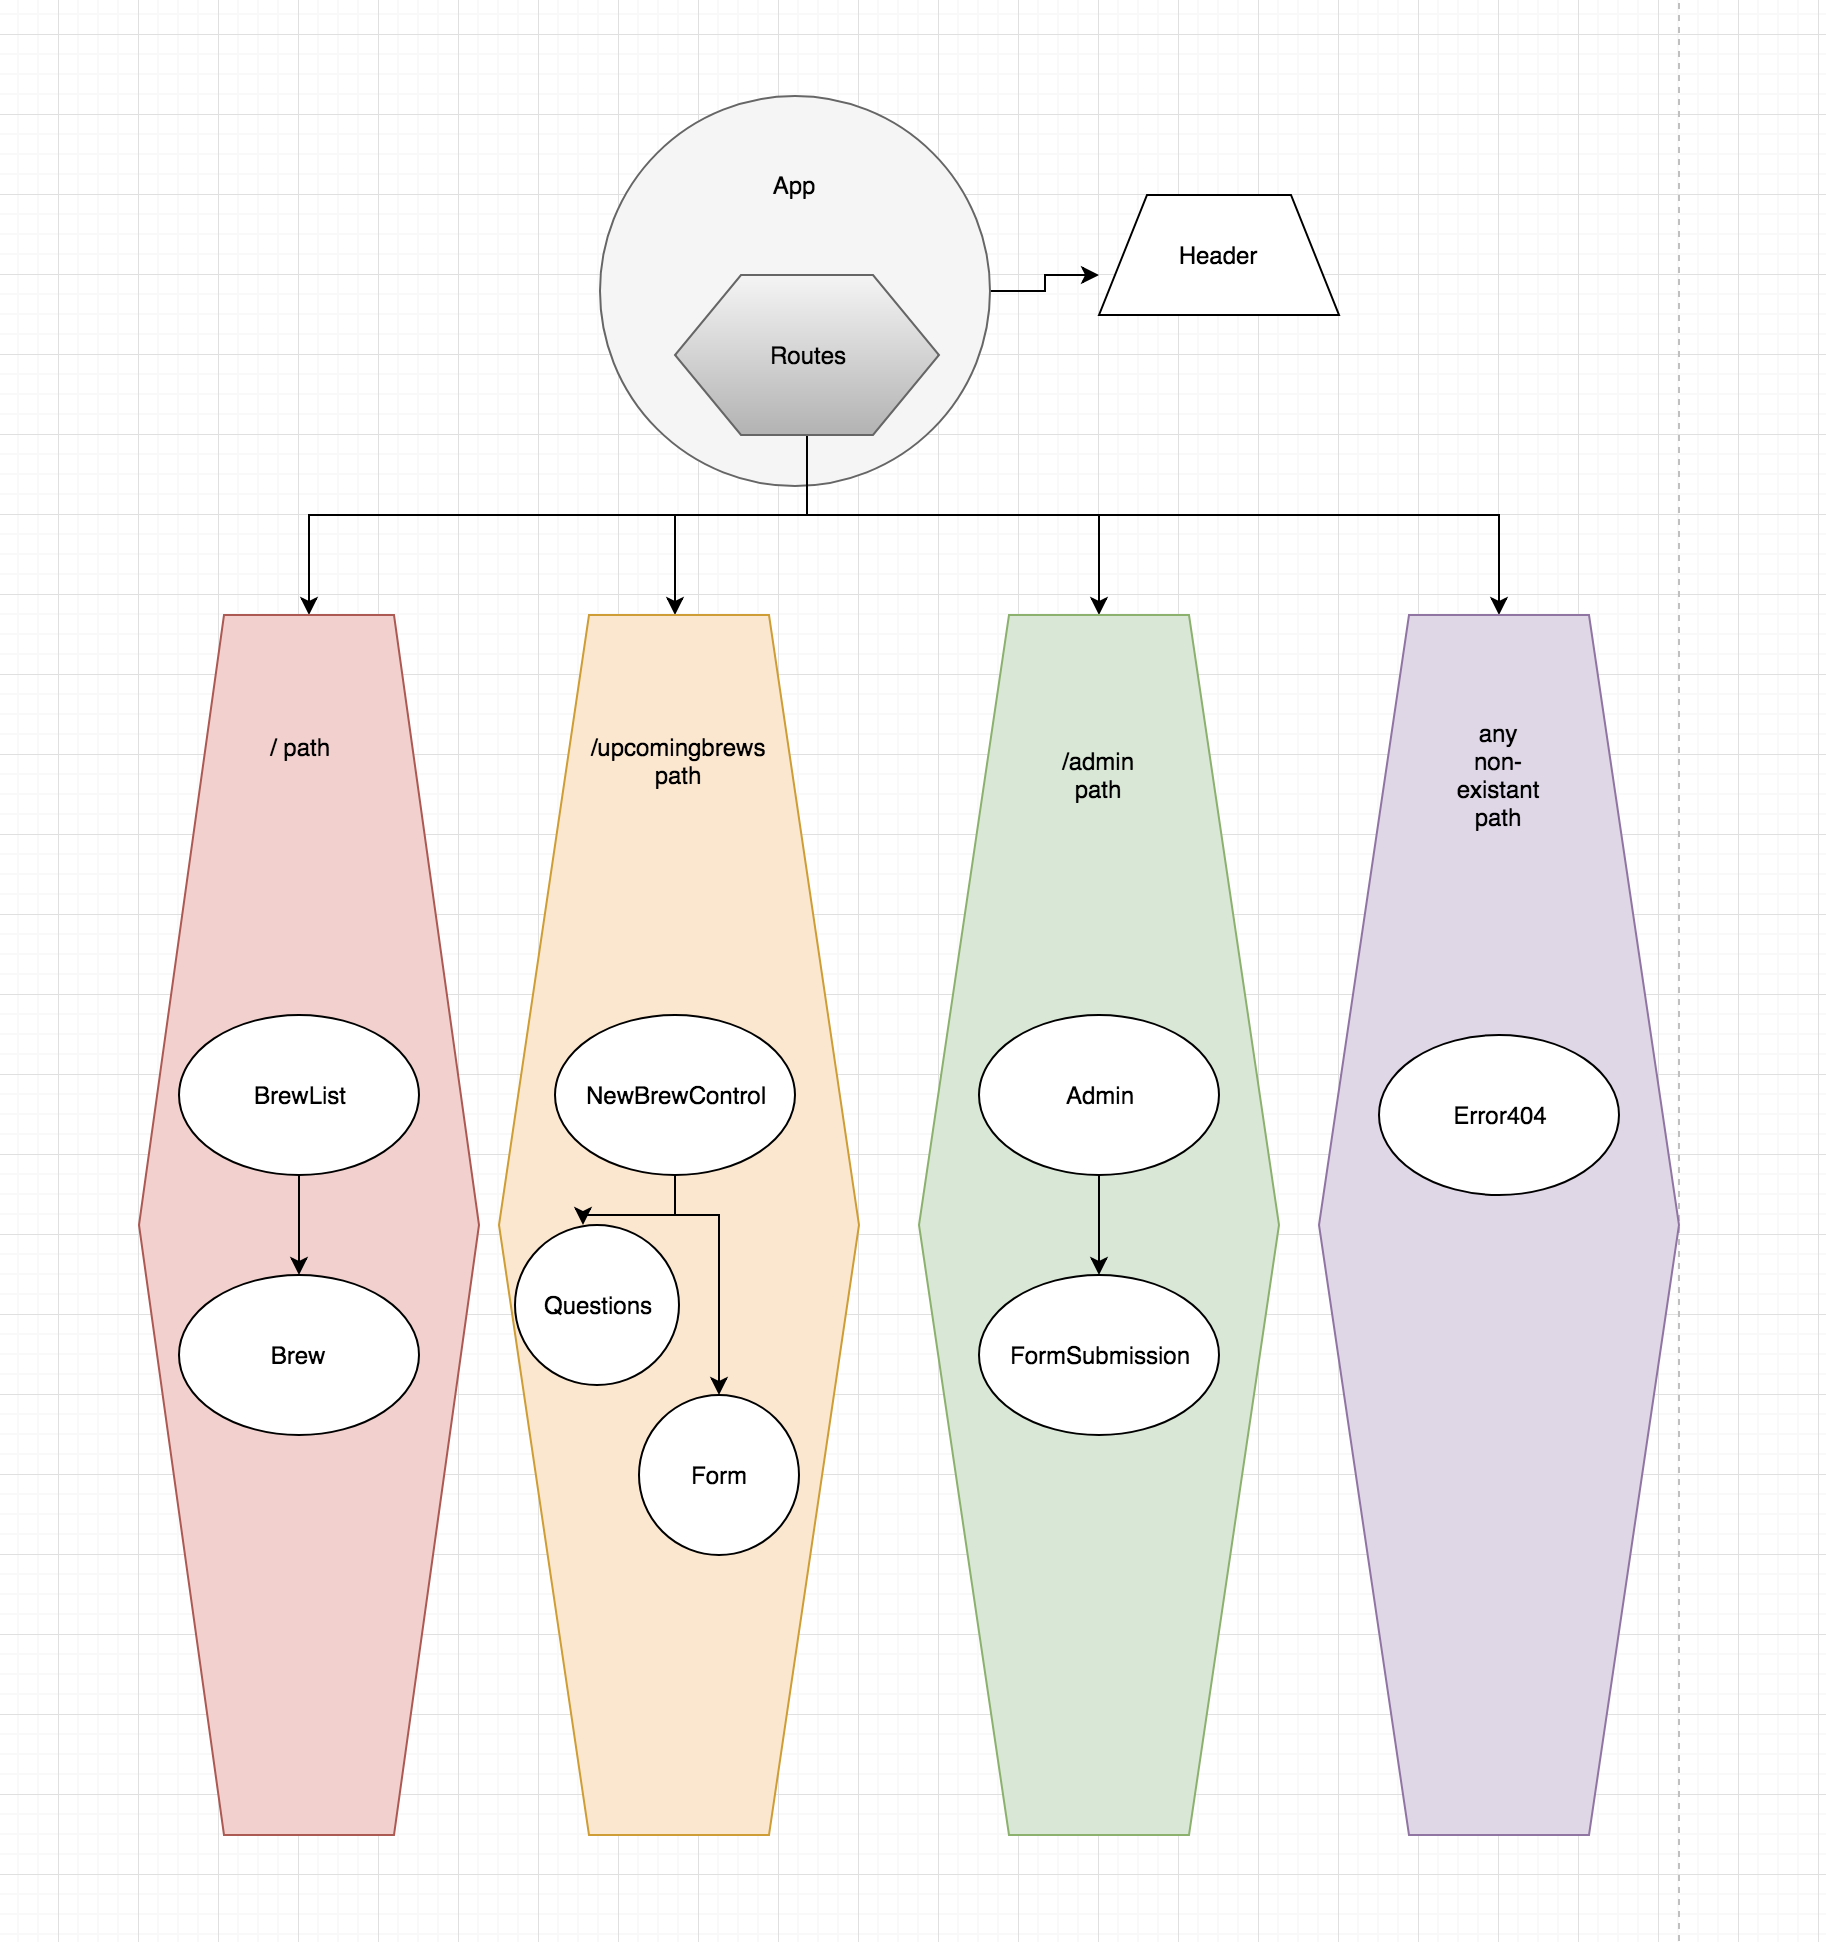
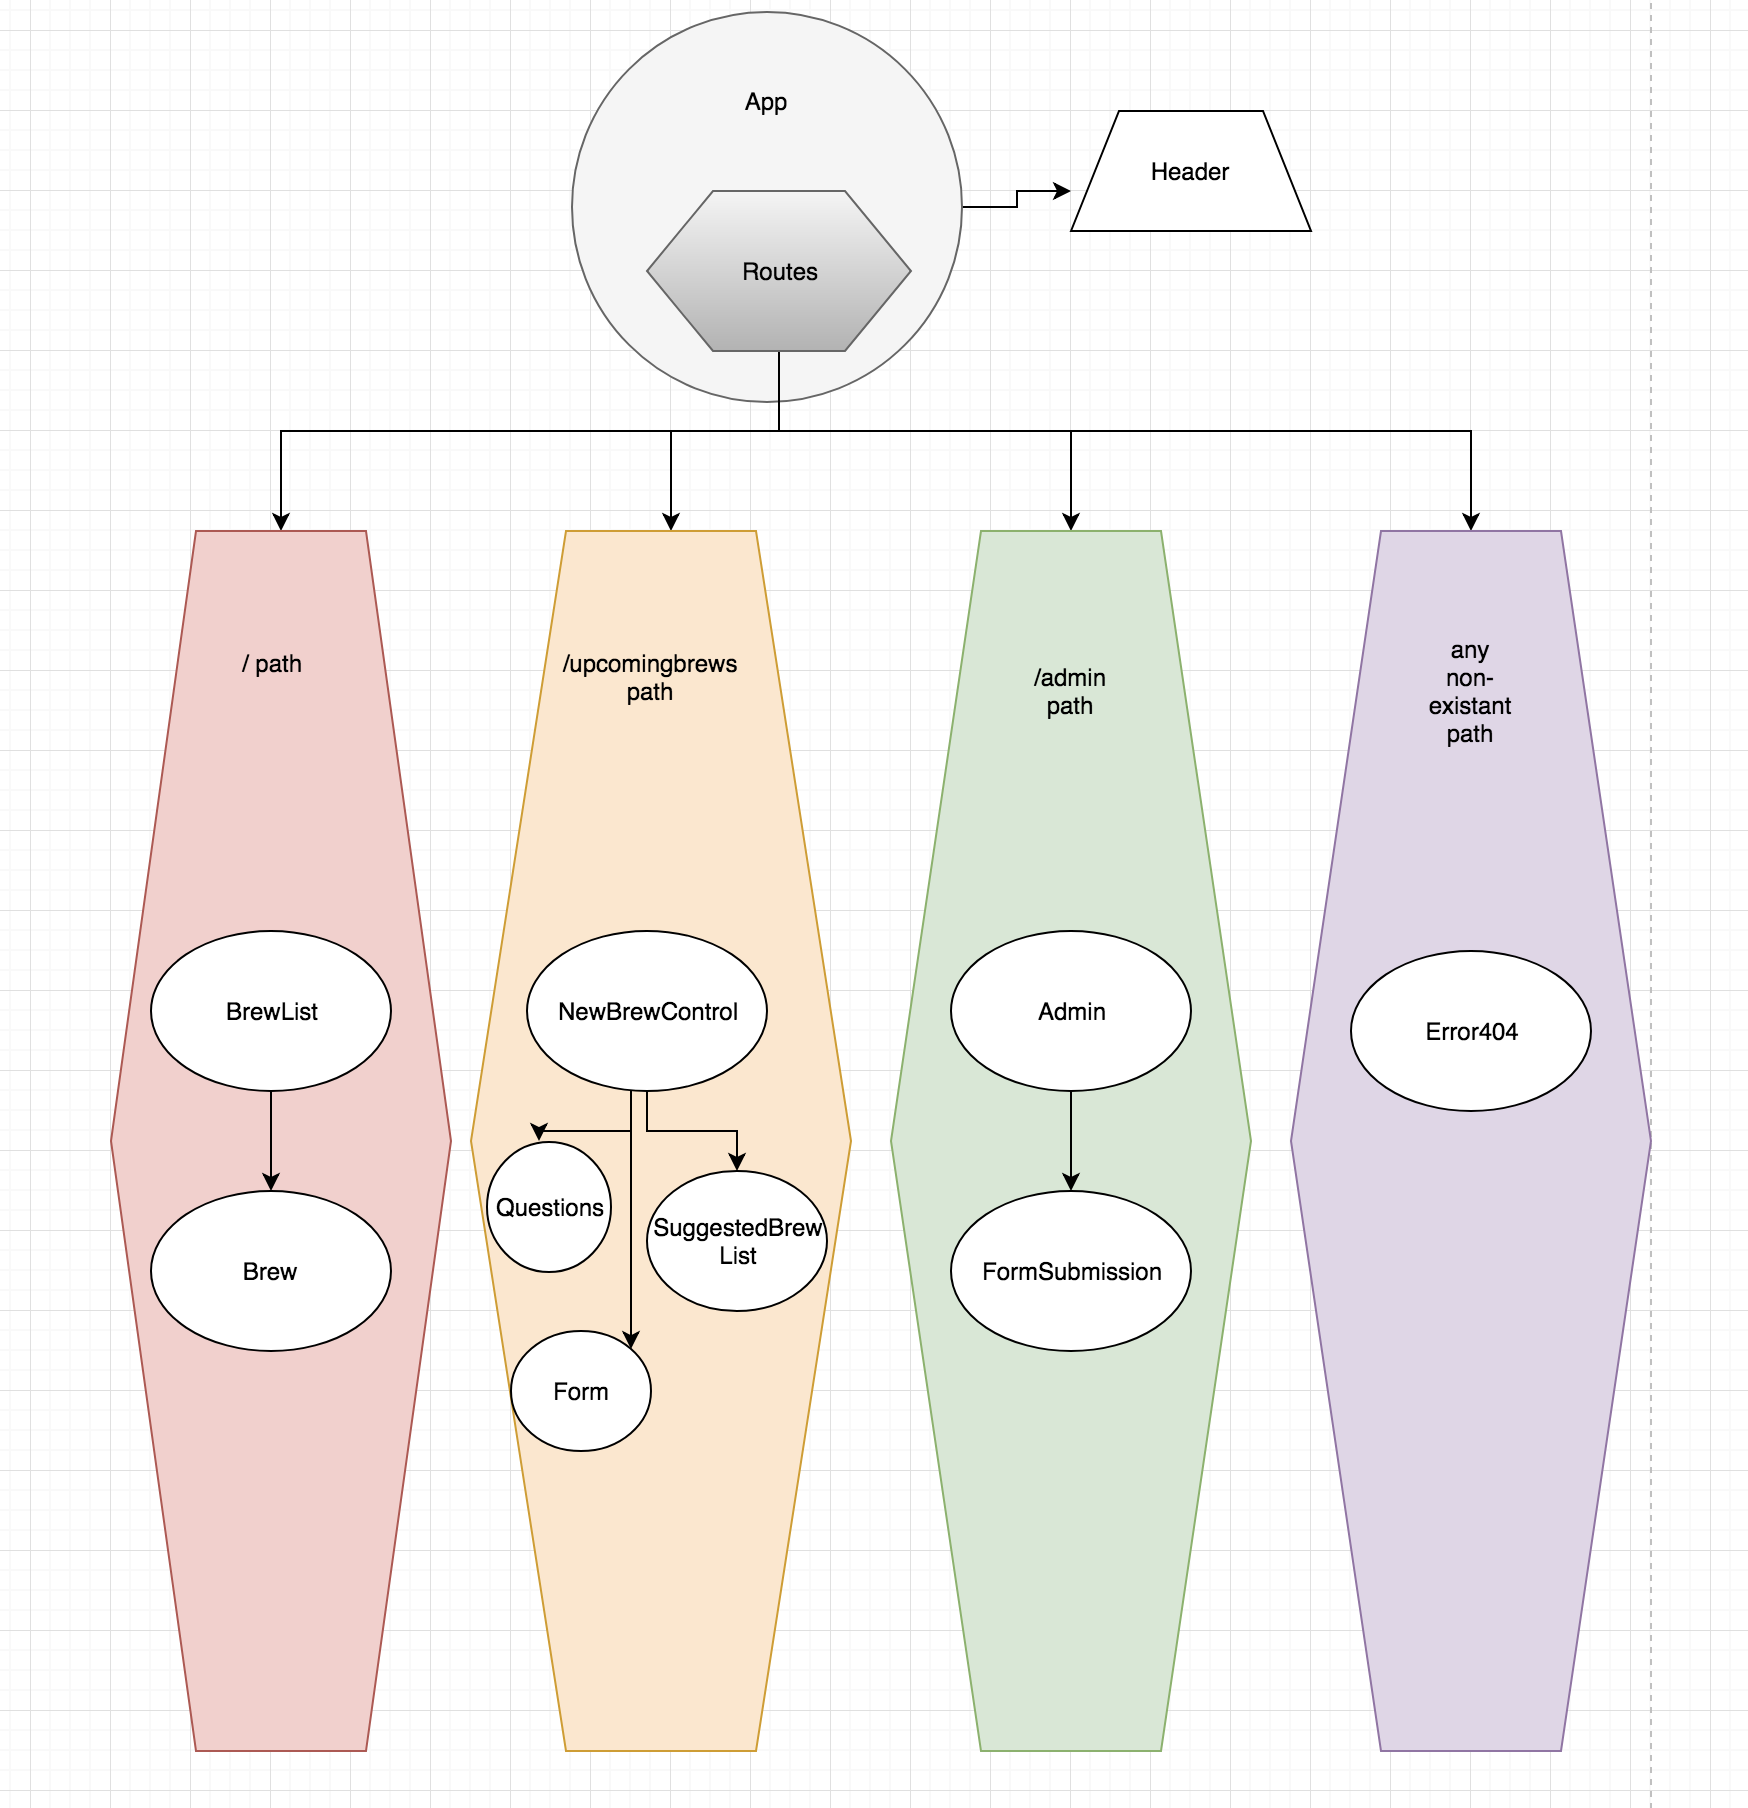
add UpcomingBrewList to component structure

diff --git a/src/components/Header.jsx b/src/components/Header.jsx
@@ -5,7 +5,7 @@ function Header(){
   return (
     <div>
       <h1>Kris Taps</h1>
-      <Link to="/">Home</Link> | <Link to="/brewform">Suggest a brew</Link>
+      <Link to="/">Home</Link> | <Link to="/brewform">Suggest a brew</Link> | <Link to="/upcomingbrews">Upcoming Brews</Link>
     </div>
   );
 }
